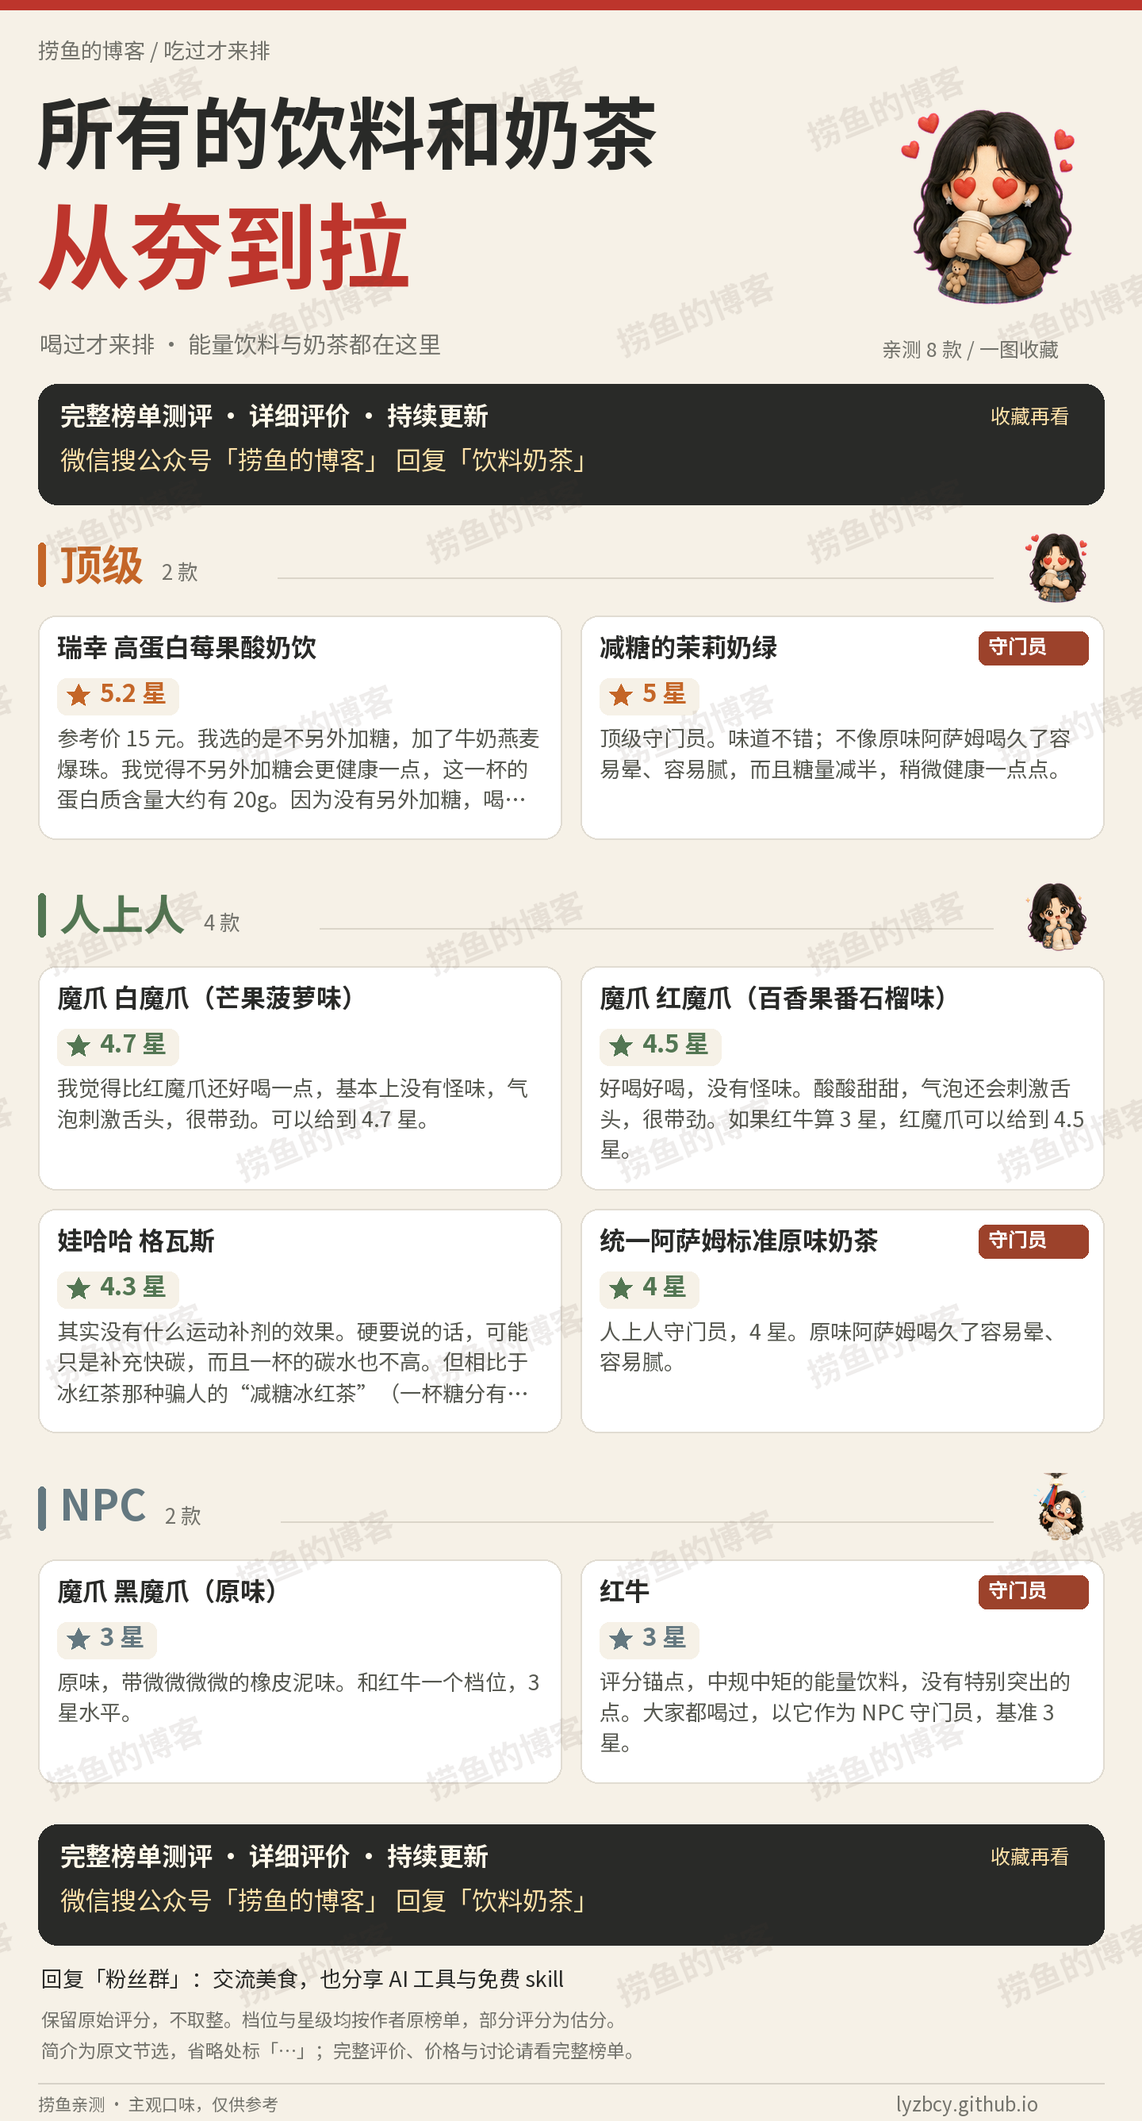
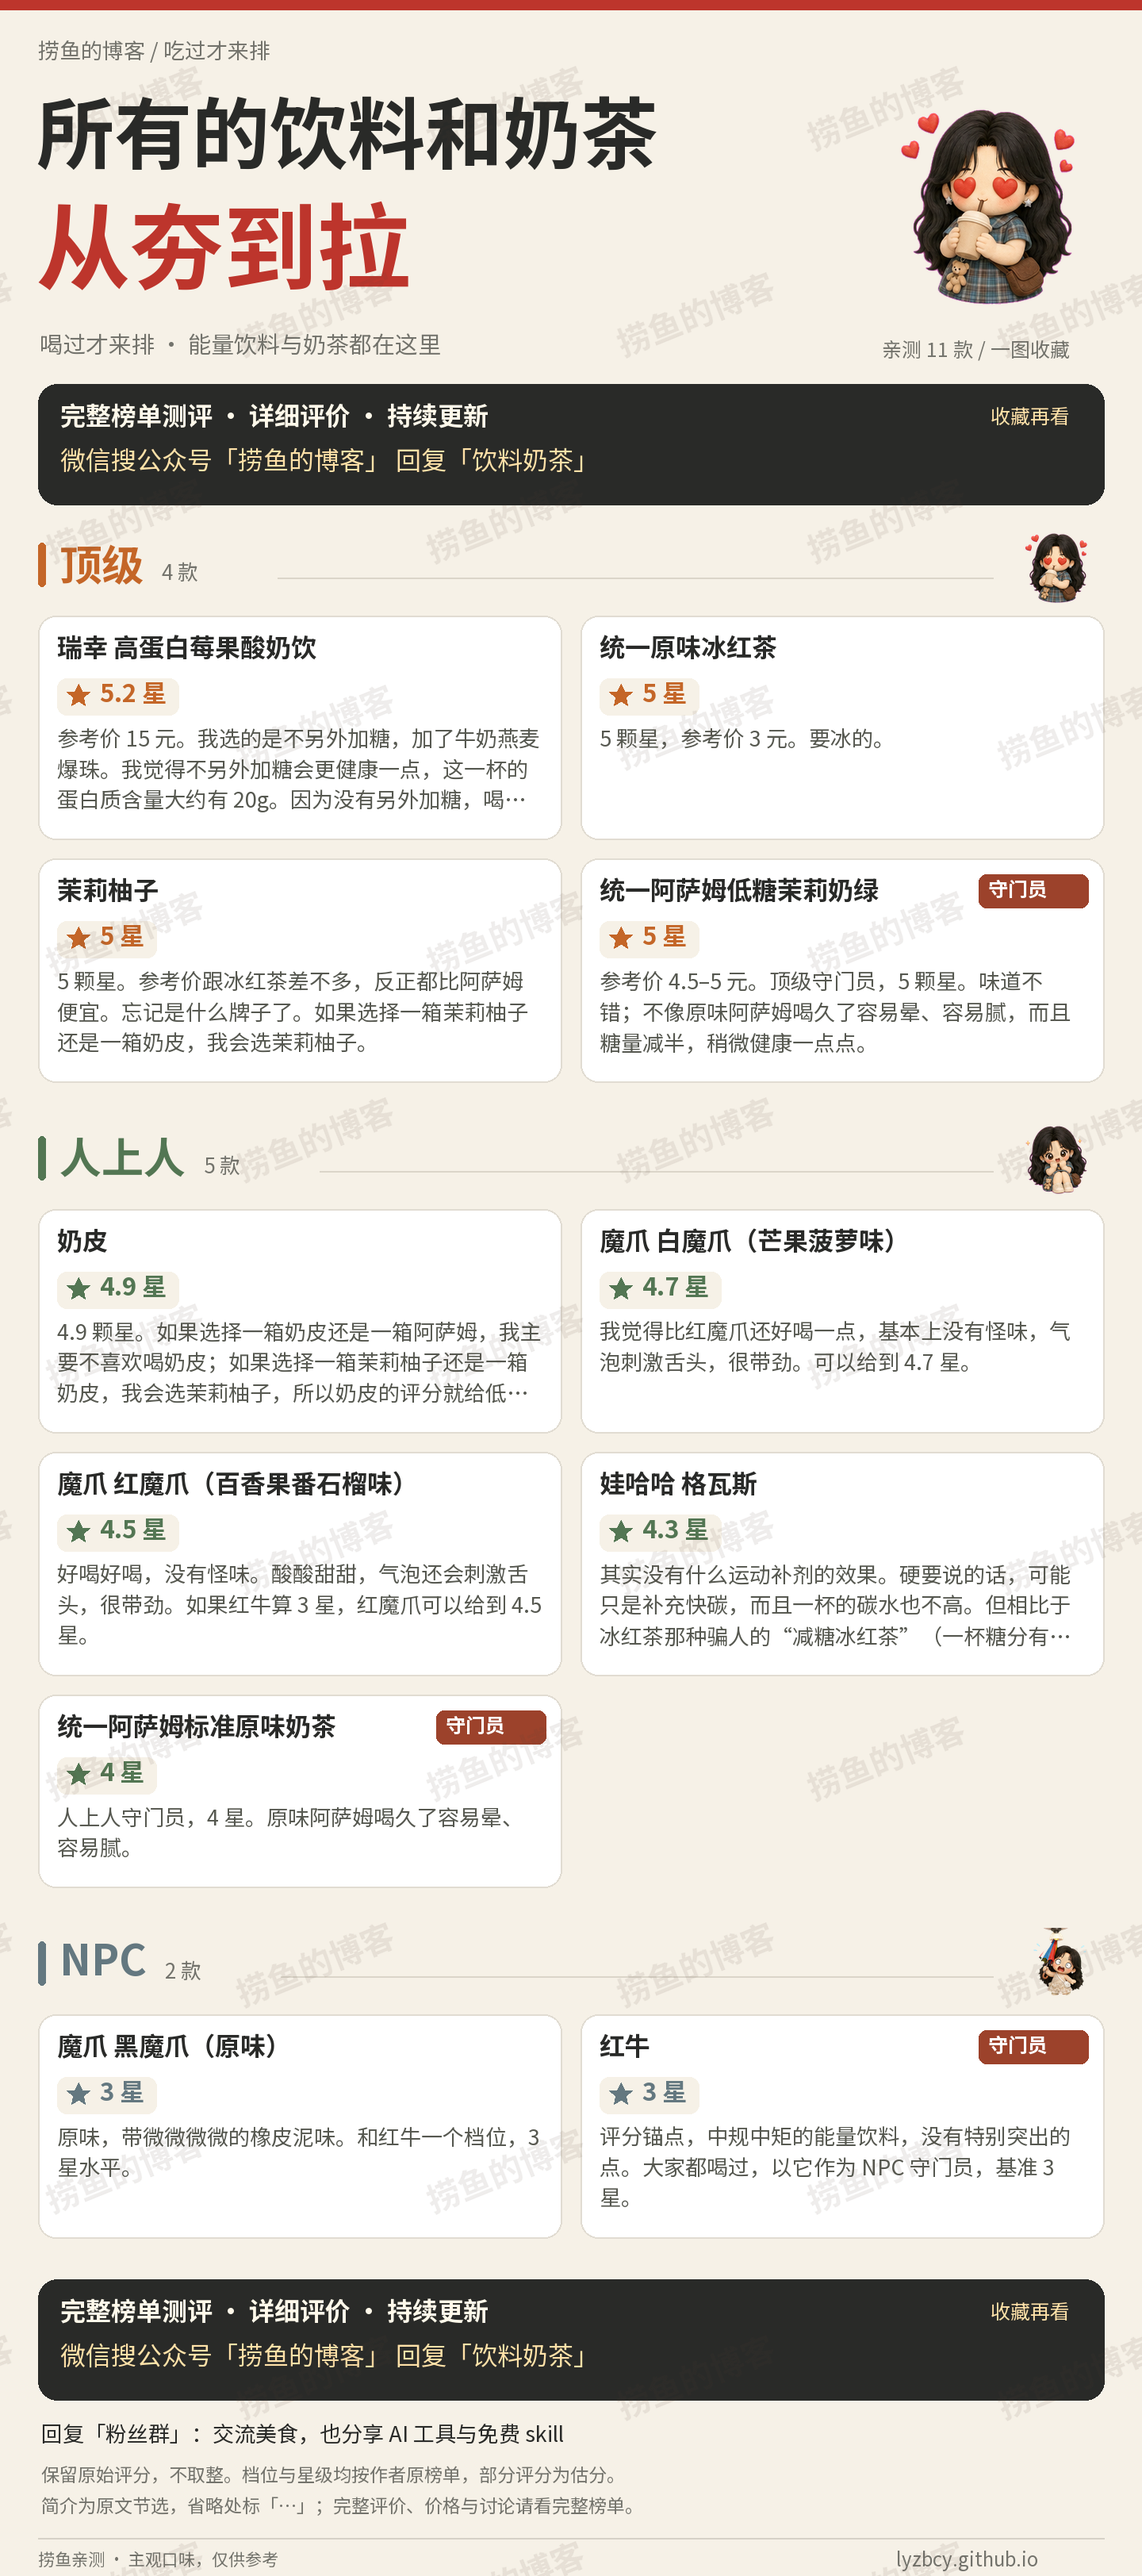
feat(drink): add tea and 奶皮 ratings with reference prices

Changed region(s): [[0.0312, 0.0, 0.9688, 1.0], [0.5312, 0.4656, 0.9688, 0.6829], [0.7812, 0.9933, 0.9062, 1.0]]

diff --git a/assets/lib-custom/drink-tier.js b/assets/lib-custom/drink-tier.js
@@ -20,13 +20,40 @@
       description: '好喝好喝，没有怪味。酸酸甜甜，气泡还会刺激舌头，很带劲。如果红牛算 3 星，红魔爪可以给到 4.5 星。',
     },
     {
-      name: '减糖的茉莉奶绿',
+      name: '统一阿萨姆低糖茉莉奶绿',
       tier: '顶级',
       tierLabel: '顶级 · 5 星 · 守门员',
       rating: 5,
       category: '奶茶',
-      description: '顶级守门员。味道不错；不像原味阿萨姆喝久了容易晕、容易腻，而且糖量减半，稍微健康一点点。',
+      price: '参考价 4.5–5 元',
+      description: '参考价 4.5–5 元。顶级守门员，5 颗星。味道不错；不像原味阿萨姆喝久了容易晕、容易腻，而且糖量减半，稍微健康一点点。',
       anchor: true,
+    },
+    {
+      name: '统一原味冰红茶',
+      tier: '顶级',
+      tierLabel: '顶级 · 5 星',
+      rating: 5,
+      category: '茶饮料',
+      price: '参考价 3 元',
+      description: '5 颗星，参考价 3 元。要冰的。',
+    },
+    {
+      name: '茉莉柚子',
+      tier: '顶级',
+      tierLabel: '顶级 · 5 星',
+      rating: 5,
+      category: '茶饮料',
+      price: '参考价跟冰红茶差不多，比阿萨姆便宜',
+      description: '5 颗星。参考价跟冰红茶差不多，反正都比阿萨姆便宜。忘记是什么牌子了。如果选择一箱茉莉柚子还是一箱奶皮，我会选茉莉柚子。',
+    },
+    {
+      name: '奶皮',
+      tier: '人上人',
+      tierLabel: '人上人 · 4.9 星',
+      rating: 4.9,
+      category: '其他饮料',
+      description: '4.9 颗星。如果选择一箱奶皮还是一箱阿萨姆，我主要不喜欢喝奶皮；如果选择一箱茉莉柚子还是一箱奶皮，我会选茉莉柚子，所以奶皮的评分就给低一点。奶皮有很多牌子，长得都差不多，我觉得“天润”这个牌子更好喝一点，现在我们喝的“西域春”感觉也一样吧。',
     },
     {
       name: '瑞幸 高蛋白莓果酸奶饮',

diff --git a/tests/test_tier_posters.py b/tests/test_tier_posters.py
@@ -25,11 +25,11 @@ class Scores(unittest.TestCase):
         rows = g.load_items('drink')
         anchors = {row['name']: row for row in rows if row.get('anchor')}
         self.assertEqual({name: (item['tier'], item['score']) for name, item in anchors.items()}, {
-            '减糖的茉莉奶绿': ('顶级', '5'),
+            '统一阿萨姆低糖茉莉奶绿': ('顶级', '5'),
             '统一阿萨姆标准原味奶茶': ('人上人', '4'),
             '红牛': ('NPC', '3'),
         })
-        self.assertEqual(len(rows), 8)
+        self.assertEqual(len(rows), 11)
         by_name = {row['name']: row for row in rows}
         self.assertEqual((by_name['魔爪 白魔爪（芒果菠萝味）']['tier'],
                           by_name['魔爪 白魔爪（芒果菠萝味）']['score']), ('人上人', '4.7'))

diff --git a/_posts/2026-08-12-运动饮料从夯到拉排名.md b/_posts/2026-08-12-运动饮料从夯到拉排名.md
@@ -2,7 +2,7 @@
 layout: post
 title: "所有的饮料和奶茶从夯到拉排名"
 date: 2026-08-12 14:30:00 +0800
-last_modified_at: 2026-09-30 10:26:00 +0800
+last_modified_at: 2026-10-04
 categories: [美食]
 tags: [从夯到拉排名,美食,饮料,奶茶]
 description: 所有饮料和奶茶的亲测口味排名，含能量饮料、格瓦斯与奶茶，持续更新
@@ -768,7 +768,7 @@ pin: false
 </style>
 <link rel="stylesheet" href="/assets/lib-custom/tier-anchors.css">
 
-<div class="drink-intro">从夯到拉，饮料和奶茶一起排。红牛 3 星、统一阿萨姆标准原味奶茶 4 星、减糖的茉莉奶绿 5 星，分别作为 NPC、人上人、顶级的守门员。点击卡片查看完整评价。</div>
+<div class="drink-intro">从夯到拉，饮料和奶茶一起排。红牛 3 星、统一阿萨姆标准原味奶茶 4 星、统一阿萨姆低糖茉莉奶绿 5 星，分别作为 NPC、人上人、顶级的守门员。2026 年 10 月 4 日更新：共 11 款，新增统一原味冰红茶和茉莉柚子各 5 星，奶皮 4.9 星，并补充茉莉奶绿参考价 4.5–5 元。点击卡片查看完整评价。</div>
 
 <figure class="drink-poster">
   <a href="/assets/img/posters/poster-drink.png" target="_blank" rel="noopener"><img src="/assets/img/posters/poster-drink.png" alt="所有的饮料和奶茶从夯到拉排名一图流" loading="lazy"></a>
@@ -792,5 +792,5 @@ pin: false
 <div class="content-section"></div>
 
 <div style="display: none;">
-所有的饮料和奶茶从夯到拉排名。红牛是 NPC 守门员，3 星；统一阿萨姆标准原味奶茶是人上人守门员，4 星，喝久了容易晕、容易腻；减糖的茉莉奶绿是顶级守门员，5 星，味道不错，糖少一点，稍微健康一点点。瑞幸高蛋白莓果酸奶饮，顶级 5.2 星，参考价 15 元，不另外加糖，加牛奶燕麦爆珠，蛋白质约 20g。不另外加糖更健康但滋味一般，莓果筋的地方特别有滋味，也可能是没摇匀；加糖则违背健康的初衷和卖点。和 QQ 美眉奶茶一个等级。魔爪白魔爪芒果菠萝味 4.7 星，现在人上人，比红魔爪好喝一点，气泡刺激舌头。魔爪红魔爪百香果番石榴味 4.5 星，现在人上人，酸酸甜甜，没有怪味。娃哈哈格瓦斯 4.3 星，味道因人而异，我个人挺喜欢。魔爪黑魔爪原味 3 星，带微微微微的橡皮泥味。本榜持续更新。
+所有的饮料和奶茶从夯到拉排名。红牛是 NPC 守门员，3 星；统一阿萨姆标准原味奶茶是人上人守门员，4 星，喝久了容易晕、容易腻；统一阿萨姆低糖茉莉奶绿是顶级守门员，5 星，参考价4.5–5元，味道不错，糖少一点，稍微健康一点点。瑞幸高蛋白莓果酸奶饮，顶级 5.2 星，参考价 15 元，不另外加糖，加牛奶燕麦爆珠，蛋白质约 20g。不另外加糖更健康但滋味一般，莓果筋的地方特别有滋味，也可能是没摇匀；加糖则违背健康的初衷和卖点。和 QQ 美眉奶茶一个等级。魔爪白魔爪芒果菠萝味 4.7 星，现在人上人，比红魔爪好喝一点，气泡刺激舌头。魔爪红魔爪百香果番石榴味 4.5 星，现在人上人，酸酸甜甜，没有怪味。娃哈哈格瓦斯 4.3 星，味道因人而异，我个人挺喜欢。魔爪黑魔爪原味 3 星，带微微微微的橡皮泥味。2026-10-04追加：统一原味冰红茶，顶级5星，参考价3元，要冰的。茉莉柚子，顶级5星，品牌忘记了，价格跟冰红茶差不多，反正都比阿萨姆便宜。奶皮，人上人4.9星，如果选择一箱奶皮还是一箱阿萨姆，我主要不喜欢喝奶皮；如果选择一箱茉莉柚子还是一箱奶皮，我会选茉莉柚子，所以评分低一点。奶皮有很多牌子，长得都差不多，觉得天润更好喝一点，现在喝的西域春感觉也一样。本榜持续更新。
 </div>

diff --git a/skills/lyzbcy-blog-update/references/drink-tier.md b/skills/lyzbcy-blog-update/references/drink-tier.md
@@ -14,7 +14,7 @@
 
 | 档位 | 产品 | 原始评分 | 原话依据 |
 |---|---|---:|---|
-| 顶级 | 减糖的茉莉奶绿 | 5 星 | 味道不错；不像原味阿萨姆喝久了容易晕、容易腻，而且减糖，稍微健康一点点。 |
+| 顶级 | 统一阿萨姆低糖茉莉奶绿 | 5 星 | 味道不错；不像原味阿萨姆喝久了容易晕、容易腻，而且减糖，稍微健康一点点。 |
 | 人上人 | 统一阿萨姆标准原味奶茶 | 4 星 | 人上人守门员；喝久了容易晕、容易腻。 |
 | NPC | 红牛 | 3 星 | 大家都喝过，作为 NPC 守门员；中规中矩。 |
 
@@ -29,3 +29,8 @@
 5. 只提交本轮相关文件和生成产物；发布后等 Pages 构建成功，打开页面点击新产品并核对海报与本地哈希。
 
 统一渲染和资源路径见 [一图流 Skill](../../lyzbcy-tier-posters/SKILL.md)。
+
+2026-10-04 补充：统一阿萨姆低糖茉莉奶绿名称写完整，仍为顶级守门员 5 星，参考价 4.5–5 元；
+统一原味冰红茶 5 星、3 元、要冰的；茉莉柚子 5 星，品牌未记清，价格跟冰红茶差不多且比阿萨姆便宜。
+奶皮 4.9 星，低于顶级 5 星守门员，放在人上人；作者更愿意选阿萨姆或茉莉柚子，觉得天润更好喝一点，
+现在喝的西域春感觉也一样。沿用作者称呼“奶皮”，不猜改产品名或为不同品牌分别赋分。
